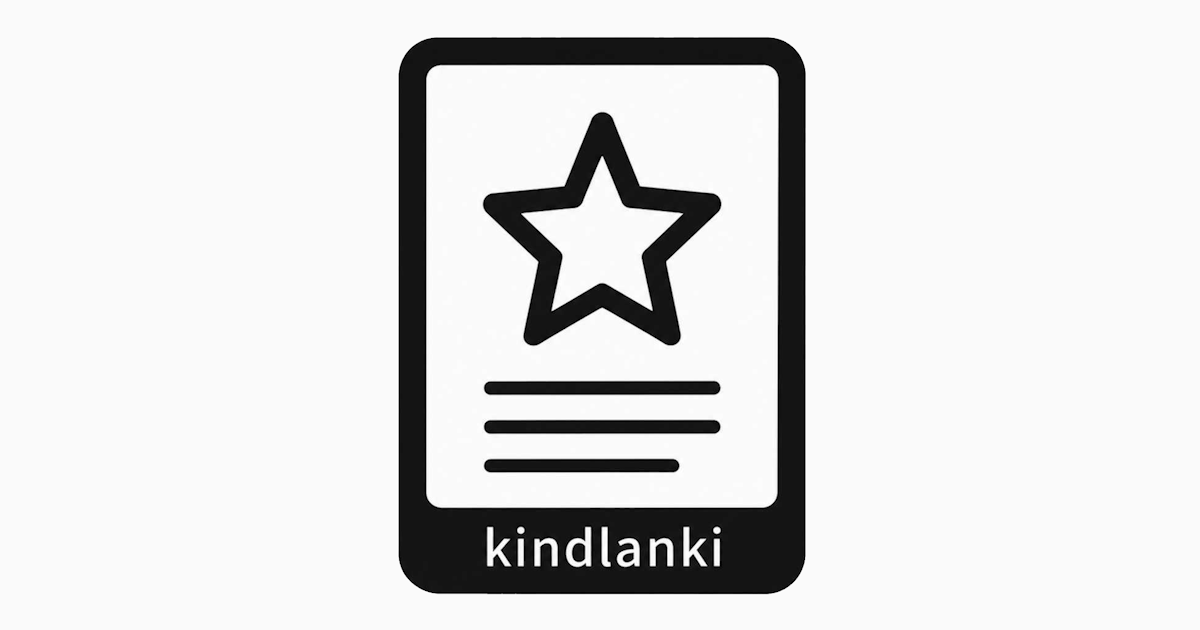
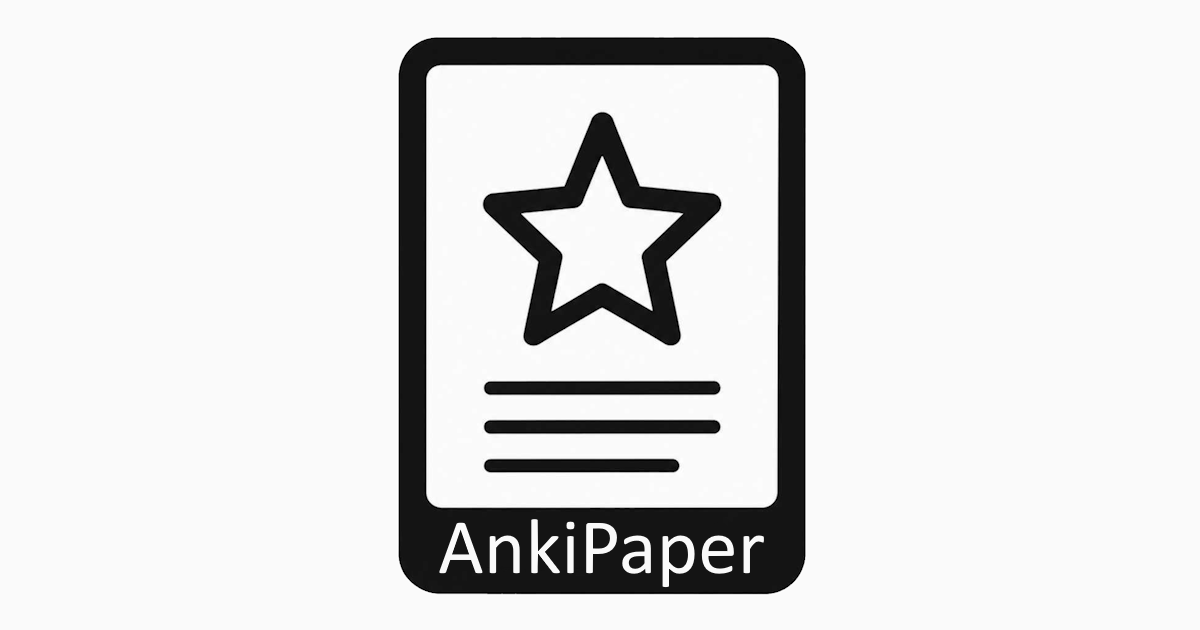
[XXX] up(legal): disclose unofficial client status in readme and landing

Changed region(s): [[0.37, 0.8143, 0.6475, 0.9349]]

diff --git a/app/web/templates/landing.html b/app/web/templates/landing.html
@@ -51,6 +51,14 @@
     threat model — see the
     <a href="/static/privacy_policy.html">privacy policy</a>.
   </p>
+
+  <p class="muted">
+    <strong>Unofficial third-party client.</strong> {{ brand_name }} is not
+    affiliated with Ankitects and is not on the AnkiWeb list of approved
+    clients. Your AnkiWeb account may be suspended for using it — see the
+    <a href="https://github.com/casualshammy/ankipaper#legal">project README</a>
+    for details. Use at your own risk.
+  </p>
 {% endblock %}
 
 {% block footer %}

diff --git a/README.md b/README.md
@@ -39,6 +39,18 @@ It uses Anki's native collection format, the official AnkiWeb sync protocol, and
 - AnkiWeb credentials and deck data pass through the server. Self-host the application if that is not acceptable for your threat model.
 - There is currently no in-app account deletion flow; remove an account's data directory only with the application stopped and an appropriate backup in place.
 
+## Legal
+
+AnkiPaper is an unofficial third-party client. It is not affiliated with Ankitects Pty Ltd and is not on the list of approved clients in the [AnkiWeb Terms of Service](https://ankiweb.net/account/terms).
+
+The AnkiWeb ToS restricts direct access to the sync service to approved clients (Anki Desktop, AnkiMobile, AnkiDroid, AnkiUniversal). AnkiPaper uses that same sync protocol to talk to AnkiWeb directly, which is outside the approved-clients list. Ankitects have historically tolerated small personal-use clients that only sync their own data and do not add noticeable load, but they may change their policy or suspend accounts at their sole discretion.
+
+Practical implications:
+
+- Your AnkiWeb account may be suspended or terminated by Ankitects for any reason, including the use of AnkiPaper. This is at Ankitects' sole discretion.
+- If Ankitects block AnkiPaper on their servers, the application will stop working. The author will not try to circumvent such a block.
+- Use is at your own risk. Keep a local backup of your collection.
+
 ## Stack
 
 - Python 3.11+ (FastAPI, Jinja2, Uvicorn)
